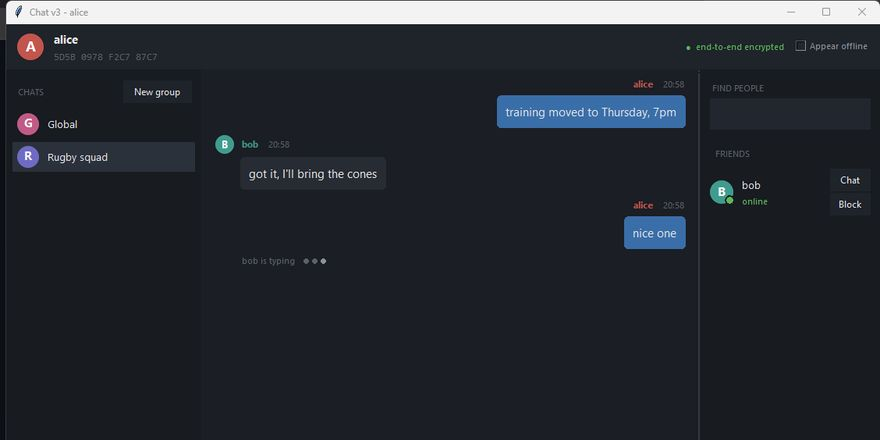
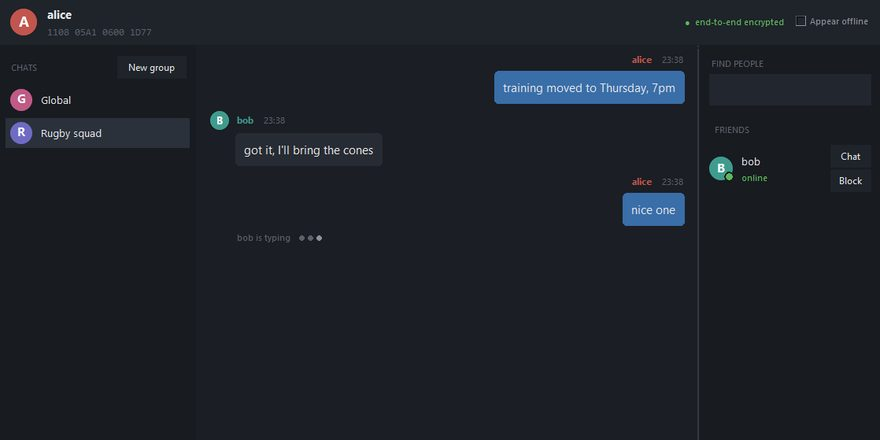
Reorder planned projects, add an image lightbox and improve card artwork

diff --git a/public/index.html b/public/index.html
@@ -243,9 +243,10 @@
 
       <ul class="projects">
         <li>
-          <a class="pshot" href="https://github.com/DanielAlexanderSpiers/Secure-Chat" target="_blank" rel="noopener" tabindex="-1" aria-hidden="true">
-            <img src="/assets/project-secure-chat.jpg" width="880" height="440" alt="" loading="lazy">
-          </a>
+          <button class="pshot" type="button" data-full="/assets/project-secure-chat-full.jpg" aria-label="Open a larger screenshot of Secure Chat">
+            <img src="/assets/project-secure-chat.jpg" width="880" height="440" alt="The Secure Chat client, showing a group conversation" loading="lazy">
+            <span class="pzoom" aria-hidden="true">Click to enlarge</span>
+          </button>
           <div class="ptop">
             <h3>Secure Chat</h3>
             <span class="pyear">2026</span>
@@ -259,9 +260,10 @@
         </li>
 
         <li>
-          <a class="pshot" href="https://github.com/DanielAlexanderSpiers/CV-website" target="_blank" rel="noopener" tabindex="-1" aria-hidden="true">
-            <img src="/assets/project-website.jpg" width="880" height="440" alt="" loading="lazy">
-          </a>
+          <button class="pshot" type="button" data-full="/assets/project-website-full.jpg" aria-label="Open a larger image of this website">
+            <img src="/assets/project-website.jpg" width="880" height="440" alt="This website" loading="lazy">
+            <span class="pzoom" aria-hidden="true">Click to enlarge</span>
+          </button>
           <div class="ptop">
             <h3>This website</h3>
             <span class="pyear">2026</span>
@@ -277,6 +279,11 @@
 
       <p class="sec">In progress and planned</p>
       <ul class="items upcoming">
+        <li class="now">
+          <strong>Sleepover <span class="nowtag">Working on this</span></strong>
+          <span class="meta">Roblox &middot; Luau</span>
+          <span class="idesc">A co-op party game built with friends. Server authoritative, so the fun does not depend on everyone behaving.</span>
+        </li>
         <li>
           <strong>Neural Snake</strong>
           <span class="meta">Python &middot; NumPy</span>
@@ -286,11 +293,6 @@
           <strong>2D Physics Engine</strong>
           <span class="meta">C#</span>
           <span class="idesc">Collision detection and response written from scratch, with no game engine doing the maths for me.</span>
-        </li>
-        <li>
-          <strong>Sleepover</strong>
-          <span class="meta">Roblox &middot; Luau</span>
-          <span class="idesc">A co-op party game built with friends. Server authoritative, so the fun does not depend on everyone behaving.</span>
         </li>
       </ul>
 
@@ -480,6 +482,13 @@
 
   </article>
 
+</div>
+
+<div class="lightbox" id="lightbox" hidden>
+  <button class="lb-close" type="button" id="lb-close" aria-label="Close the image">
+    <svg viewBox="0 0 24 24" fill="none" stroke="currentColor" stroke-width="2.5" stroke-linecap="round" aria-hidden="true"><path d="M18 6 6 18"></path><path d="m6 6 12 12"></path></svg>
+  </button>
+  <img id="lb-image" src="" alt="">
 </div>
 
 <div class="toast" id="toast" role="status" aria-live="polite">

diff --git a/public/styles.css b/public/styles.css
@@ -445,7 +445,17 @@ td.g,th.g{text-align:right;padding-right:0;width:1%;white-space:nowrap}
   background:var(--card);transition:border-color .15s ease,transform .18s ease;
 }
 .projects > li:hover{border-color:var(--tone);transform:translateY(-2px)}
-.pshot{display:block;margin:0 0 1rem;border-bottom:2px solid var(--border-soft);background:var(--inset)}
+.pshot{
+  display:block;width:100%;margin:0 0 1rem;padding:0;border:0;border-bottom:2px solid var(--border-soft);
+  background:var(--inset);cursor:zoom-in;position:relative;overflow:hidden;
+}
+.pzoom{
+  position:absolute;right:.7rem;bottom:.7rem;font-family:var(--f-mono);font-size:.65rem;
+  letter-spacing:.06em;text-transform:uppercase;background:rgba(10,18,32,.78);color:#fff;
+  padding:.3rem .6rem;border-radius:999px;opacity:0;transition:opacity .18s ease;
+}
+.pshot:hover .pzoom,.pshot:focus-visible .pzoom{opacity:1}
+@media (hover:none){.pzoom{opacity:1}}
 .pshot img{width:100%;height:auto;aspect-ratio:2/1;object-fit:cover;object-position:top center;display:block}
 .ptop{display:flex;align-items:baseline;gap:.75rem;flex-wrap:wrap;padding:0 1.2rem}
 .projects > li > p,.projects > li > .ptags,.projects > li > .plink{margin-left:1.2rem;margin-right:1.2rem}
@@ -469,7 +479,32 @@ td.g,th.g{text-align:right;padding-right:0;width:1%;white-space:nowrap}
 .upcoming li{align-items:flex-start}
 .upcoming strong{flex:0 0 auto}
 .upcoming .idesc{flex:1 0 100%;font-size:.875rem;color:var(--ink-soft);line-height:1.5}
-.projects + .sec,.items + .gh{margin-top:2rem}
+.projects + .sec{margin-top:2rem}
+.items + .gh{margin-top:2.75rem}
+.now{border-color:var(--tone)!important;background:var(--accent-soft)}
+.nowtag{
+  font-family:var(--f-mono);font-size:.6rem;letter-spacing:.08em;text-transform:uppercase;
+  background:var(--tone);color:#fff;padding:.22rem .55rem;border-radius:999px;font-weight:500;
+}
+
+.lightbox{
+  position:fixed;inset:0;z-index:1000;display:flex;align-items:center;justify-content:center;
+  background:rgba(8,14,26,.88);padding:clamp(.75rem,4vw,3rem);cursor:zoom-out;
+  opacity:0;transition:opacity .18s ease;
+}
+.lightbox.open{opacity:1}
+.lightbox img{
+  max-width:100%;max-height:100%;width:auto;height:auto;object-fit:contain;
+  border-radius:var(--r-md);box-shadow:0 24px 70px -20px rgba(0,0,0,.75);
+}
+.lb-close{
+  position:absolute;top:clamp(.5rem,2vw,1.2rem);right:clamp(.5rem,2vw,1.2rem);
+  width:44px;height:44px;display:flex;align-items:center;justify-content:center;
+  border:0;border-radius:999px;background:rgba(255,255,255,.14);color:#fff;cursor:pointer;
+}
+.lb-close:hover{background:rgba(255,255,255,.26)}
+.lb-close svg{width:20px;height:20px}
+body.lb-open{overflow:hidden}
 
 .gh{
   display:inline-flex;align-items:center;gap:.55rem;text-decoration:none;

diff --git a/public/script.js b/public/script.js
@@ -149,6 +149,49 @@
 
   if (hash === 'resume') showResume(false);
 
+
+  var lightbox = document.getElementById('lightbox');
+  var lbImage = document.getElementById('lb-image');
+  var lbClose = document.getElementById('lb-close');
+  var lbOpener = null;
+
+  function openLightbox(btn) {
+    var src = btn.getAttribute('data-full');
+    if (!src || !lightbox) return;
+    lbOpener = btn;
+    var img = btn.querySelector('img');
+    lbImage.src = src;
+    lbImage.alt = img ? img.alt : '';
+    lightbox.hidden = false;
+    document.body.classList.add('lb-open');
+    void lightbox.offsetWidth;
+    lightbox.classList.add('open');
+    lbClose.focus();
+  }
+
+  function closeLightbox() {
+    if (!lightbox || lightbox.hidden) return;
+    lightbox.classList.remove('open');
+    document.body.classList.remove('lb-open');
+    setTimeout(function () {
+      lightbox.hidden = true;
+      lbImage.src = '';
+    }, 180);
+    if (lbOpener) { lbOpener.focus(); lbOpener = null; }
+  }
+
+  document.addEventListener('click', function (e) {
+    var shot = e.target.closest ? e.target.closest('.pshot') : null;
+    if (shot) { openLightbox(shot); return; }
+    if (lightbox && !lightbox.hidden && (e.target === lightbox || (e.target.closest && e.target.closest('#lb-close')))) {
+      closeLightbox();
+    }
+  });
+
+  document.addEventListener('keydown', function (e) {
+    if (e.key === 'Escape') closeLightbox();
+  });
+
   var WEB3FORMS_KEY = 'a765c958-0fe9-4392-938d-570e20466073';
 
   var COOLDOWN_MS = 10 * 60 * 1000;
